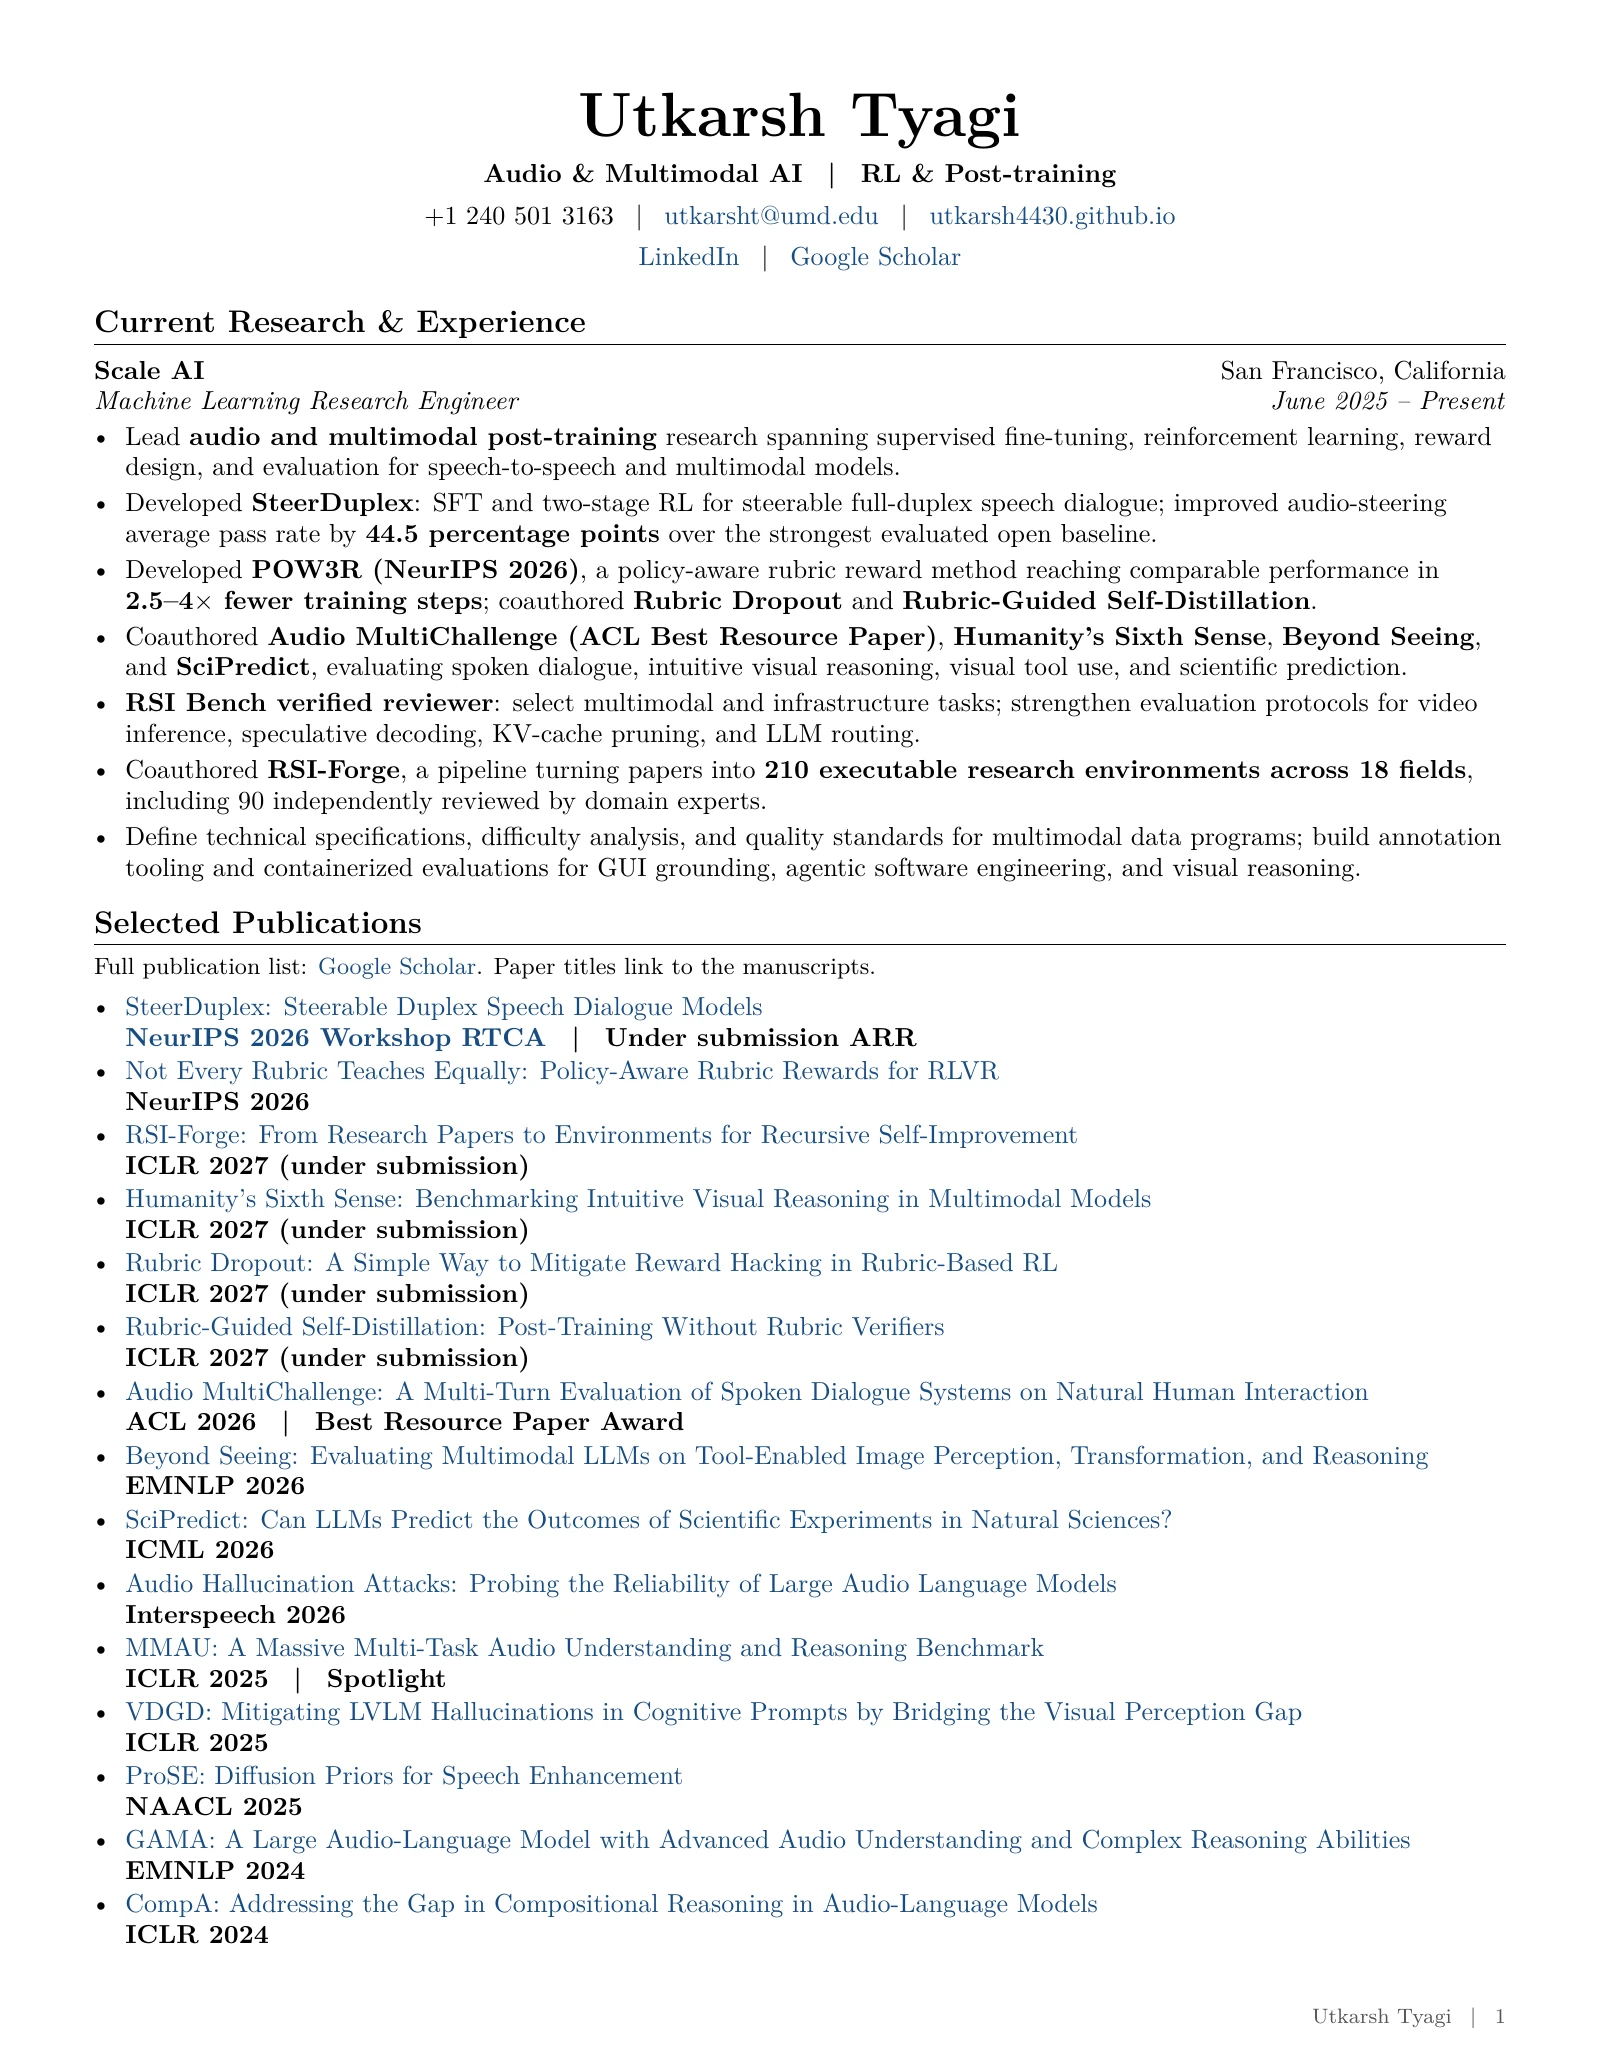
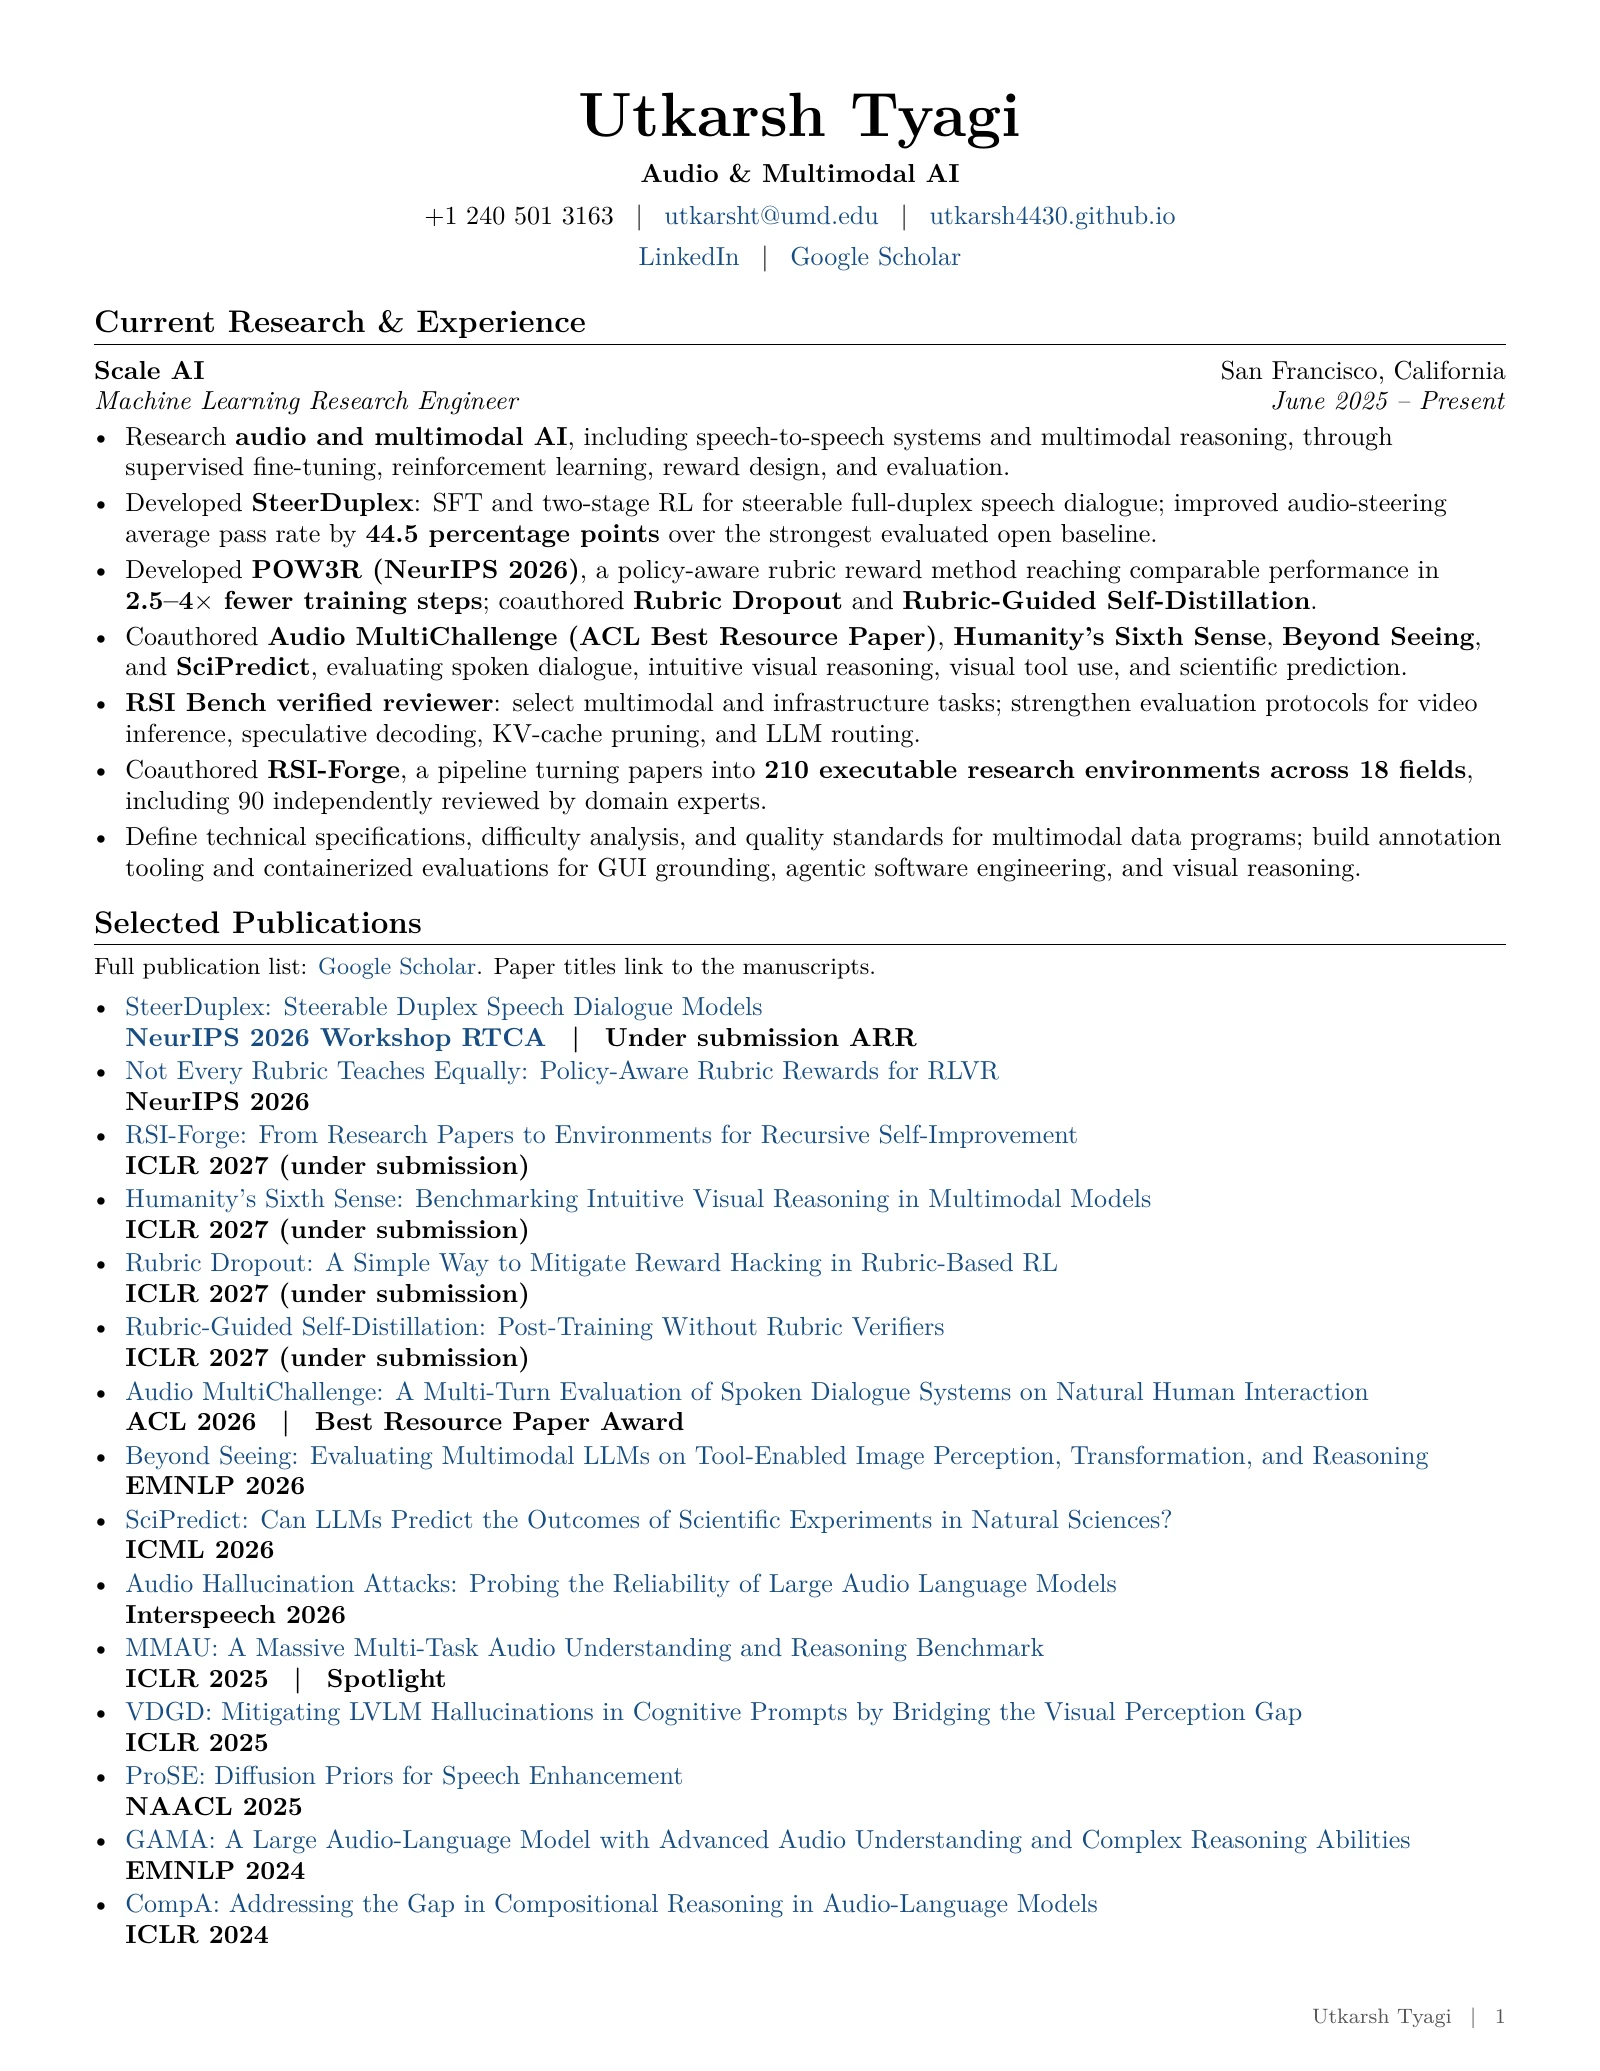
Broaden research profile to audio and multimodal AI

diff --git a/index.html b/index.html
@@ -4,10 +4,10 @@
   <meta charset="utf-8">
   <meta name="viewport" content="width=device-width, initial-scale=1">
   <title>Audio &amp; Multimodal AI Research — Utkarsh Tyagi</title>
-  <meta name="description" content="Utkarsh Tyagi, Machine Learning Research Engineer at Scale AI. Audio and multimodal AI, speech dialogue, reinforcement learning, and post-training.">
+  <meta name="description" content="Utkarsh Tyagi, Machine Learning Research Engineer at Scale AI. Audio and multimodal AI research: speech-to-speech systems, audio-language models, multimodal reasoning, reinforcement learning, and evaluation.">
   <meta name="theme-color" content="#fbfaf8">
   <meta property="og:title" content="Audio &amp; Multimodal AI Research — Utkarsh Tyagi">
-  <meta property="og:description" content="Utkarsh Tyagi, Machine Learning Research Engineer at Scale AI. Audio and multimodal AI, speech dialogue, reinforcement learning, and post-training.">
+  <meta property="og:description" content="Utkarsh Tyagi, Machine Learning Research Engineer at Scale AI. Audio and multimodal AI research: speech-to-speech systems, audio-language models, multimodal reasoning, reinforcement learning, and evaluation.">
   <meta property="og:type" content="website">
   <meta property="og:url" content="https://utkarsh4430.github.io/">
   <meta property="og:image" content="https://utkarsh4430.github.io/assets/IMG_4207.jpeg">
@@ -26,13 +26,13 @@
     <main id="main">
       <section class="hero" aria-labelledby="intro-title">
         <div class="bio">
-          <p class="eyebrow">Audio &amp; multimodal AI · RL &amp; post-training</p>
+          <p class="eyebrow">Audio &amp; multimodal AI</p>
           <h1 id="intro-title">Utkarsh Tyagi</h1>
           <p>I’m a <strong>Machine Learning Research Engineer at Scale AI</strong> in San Francisco.
-            My research focuses on audio and multimodal AI, with an emphasis on post-training,
-            reinforcement learning, and speech-to-speech models.</p>
-          <p>I work on steerable speech dialogue, rubric-based learning, and evaluations of
-            how models reason across audio, images, and video.</p>
+            My research focuses on audio and multimodal AI, including speech-to-speech systems,
+            audio-language models, and multimodal reasoning.</p>
+          <p>I work on supervised fine-tuning, reinforcement learning, and model evaluation,
+            with recent research on steerable speech dialogue and rubric-based post-training.</p>
           <p>I also contribute to <a href="https://rsi-benchmark.com/people">RSI Bench</a> as a verified reviewer,
             with task selection for multimodal and infrastructure research. I coauthored
             <a href="https://arxiv.org/abs/2610.09426" data-umami-event="paper_click" data-umami-event-paper="rsi-forge">RSI-Forge</a>,
@@ -100,7 +100,7 @@
 </main>
     <footer class="site-footer">
       <span>Utkarsh Tyagi · San Francisco</span>
-      <span>Updated October 2026 · <a href="mailto:utkarsht@umd.edu">Get in touch</a></span>
+      <span>Updated November 2026 · <a href="mailto:utkarsht@umd.edu">Get in touch</a></span>
     </footer>
   </div>
 </body>

diff --git a/cv/index.html b/cv/index.html
@@ -28,24 +28,24 @@
         <p class="eyebrow">Experience &amp; background</p><h1>Curriculum vitae</h1>
         <p>My research, publications, experience, technical skills, and professional service.</p>
         <div class="cv-actions">
-          <a href="/assets/Utkarsh_resume.pdf?v=37b86342ca" class="button primary" download="Utkarsh_Tyagi_CV.pdf" data-umami-event="cv_download">Download CV ↓</a>
-          <a href="/assets/Utkarsh_resume.pdf?v=37b86342ca" class="button" target="_blank" rel="noopener" data-umami-event="cv_open">Open PDF ↗</a>
+          <a href="/assets/Utkarsh_resume.pdf?v=5167056e0e" class="button primary" download="Utkarsh_Tyagi_CV.pdf" data-umami-event="cv_download">Download CV ↓</a>
+          <a href="/assets/Utkarsh_resume.pdf?v=5167056e0e" class="button" target="_blank" rel="noopener" data-umami-event="cv_open">Open PDF ↗</a>
         </div>
-        <p class="cv-meta">Updated October 30, 2026 · PDF · 2 pages</p>
+        <p class="cv-meta">Updated November 1, 2026 · PDF · 2 pages</p>
       </div>
       <figure class="cv-preview" aria-label="Preview of the current two-page CV">
-        <div class="cv-page"><a href="/assets/Utkarsh_resume.pdf?v=37b86342ca" aria-label="Open the full CV PDF" data-umami-event="cv_open">
-          <img src="/assets/cv-page-1.webp?v=37b86342ca" width="1600" height="2071" alt="CV page 1: current research at Scale AI and selected publications.">
+        <div class="cv-page"><a href="/assets/Utkarsh_resume.pdf?v=5167056e0e" aria-label="Open the full CV PDF" data-umami-event="cv_open">
+          <img src="/assets/cv-page-1.webp?v=5167056e0e" width="1600" height="2071" alt="CV page 1: current research at Scale AI and selected publications.">
         </a></div>
-        <div class="cv-page"><a href="/assets/Utkarsh_resume.pdf?v=37b86342ca" aria-label="Open the full CV PDF" data-umami-event="cv_open">
-          <img src="/assets/cv-page-2.webp?v=37b86342ca" width="1600" height="2071" alt="CV page 2: additional experience, education, technical skills, awards, service, and patents." loading="lazy">
+        <div class="cv-page"><a href="/assets/Utkarsh_resume.pdf?v=5167056e0e" aria-label="Open the full CV PDF" data-umami-event="cv_open">
+          <img src="/assets/cv-page-2.webp?v=5167056e0e" width="1600" height="2071" alt="CV page 2: additional experience, education, technical skills, awards, service, and patents." loading="lazy">
         </a></div>
-        <figcaption>For selectable text and publication links, <a href="/assets/Utkarsh_resume.pdf?v=37b86342ca" data-umami-event="cv_open">open the PDF</a>.</figcaption>
+        <figcaption>For selectable text and publication links, <a href="/assets/Utkarsh_resume.pdf?v=5167056e0e" data-umami-event="cv_open">open the PDF</a>.</figcaption>
       </figure>
 </main>
     <footer class="site-footer">
       <span>Utkarsh Tyagi · San Francisco</span>
-      <span>Updated October 2026 · <a href="mailto:utkarsht@umd.edu">Get in touch</a></span>
+      <span>Updated November 2026 · <a href="mailto:utkarsht@umd.edu">Get in touch</a></span>
     </footer>
   </div>
 </body>

diff --git a/publications/index.html b/publications/index.html
@@ -26,7 +26,7 @@
     <main id="main">
       <div class="page-intro">
         <p class="eyebrow">Research</p><h1>Publications</h1>
-        <p>Recent work on speech dialogue, multimodal reasoning, rubric feedback, and self-improving agents.</p>
+        <p>Research across audio and multimodal AI, including speech dialogue, reinforcement learning, evaluation, and self-improving agents.</p>
       </div>
       <section aria-labelledby="featured-title">
         <div class="section-heading"><h2 id="featured-title">Featured work</h2><span class="quiet">Figures from the papers</span></div>
@@ -133,7 +133,7 @@
 </main>
     <footer class="site-footer">
       <span>Utkarsh Tyagi · San Francisco</span>
-      <span>Updated October 2026 · <a href="mailto:utkarsht@umd.edu">Get in touch</a></span>
+      <span>Updated November 2026 · <a href="mailto:utkarsht@umd.edu">Get in touch</a></span>
     </footer>
   </div>
 </body>

diff --git a/scripts/build_profile.py b/scripts/build_profile.py
@@ -117,13 +117,13 @@ def news_rows(items):
 intro = f'''
       <section class="hero" aria-labelledby="intro-title">
         <div class="bio">
-          <p class="eyebrow">Audio &amp; multimodal AI · RL &amp; post-training</p>
+          <p class="eyebrow">Audio &amp; multimodal AI</p>
           <h1 id="intro-title">Utkarsh Tyagi</h1>
           <p>I’m a <strong>Machine Learning Research Engineer at Scale AI</strong> in San Francisco.
-            My research focuses on audio and multimodal AI, with an emphasis on post-training,
-            reinforcement learning, and speech-to-speech models.</p>
-          <p>I work on steerable speech dialogue, rubric-based learning, and evaluations of
-            how models reason across audio, images, and video.</p>
+            My research focuses on audio and multimodal AI, including speech-to-speech systems,
+            audio-language models, and multimodal reasoning.</p>
+          <p>I work on supervised fine-tuning, reinforcement learning, and model evaluation,
+            with recent research on steerable speech dialogue and rubric-based post-training.</p>
           <p>I also contribute to {link("https://rsi-benchmark.com/people", "RSI Bench")} as a verified reviewer,
             with task selection for multimodal and infrastructure research. I coauthored
             {link(PAPERS["rsi-forge"]["url"], "RSI-Forge", event("paper_click", paper="rsi-forge"))},
@@ -204,7 +204,7 @@ for year in sorted({p["year"] for p in DATA["publications"]}, reverse=True):
 publications = f'''
       <div class="page-intro">
         <p class="eyebrow">Research</p><h1>Publications</h1>
-        <p>Recent work on speech dialogue, multimodal reasoning, rubric feedback, and self-improving agents.</p>
+        <p>Research across audio and multimodal AI, including speech dialogue, reinforcement learning, evaluation, and self-improving agents.</p>
       </div>
       <section aria-labelledby="featured-title">
         <div class="section-heading"><h2 id="featured-title">Featured work</h2><span class="quiet">Figures from the papers</span></div>
@@ -240,7 +240,7 @@ cv = f'''
 '''
 
 for path, title, active, description, body, route in [
-    ("index.html", "Audio & Multimodal AI Research", "intro", "Utkarsh Tyagi, Machine Learning Research Engineer at Scale AI. Audio and multimodal AI, speech dialogue, reinforcement learning, and post-training.", intro, "/"),
+    ("index.html", "Audio & Multimodal AI Research", "intro", "Utkarsh Tyagi, Machine Learning Research Engineer at Scale AI. Audio and multimodal AI research: speech-to-speech systems, audio-language models, multimodal reasoning, reinforcement learning, and evaluation.", intro, "/"),
     ("publications/index.html", "Publications", "publications", "Selected research by Utkarsh Tyagi, including RSI-Forge, SteerDuplex, POW3R, Humanity’s Sixth Sense, Rubric Dropout, and Audio MultiChallenge.", publications, "/publications/"),
     ("cv/index.html", "CV", "cv", "Utkarsh Tyagi’s current CV: research, publications, professional experience, skills, and service.", cv, "/cv/")
 ]:

diff --git a/assets/Utkarsh_resume.tex b/assets/Utkarsh_resume.tex
@@ -1,4 +1,4 @@
-% Utkarsh Tyagi -- research resume, updated October 30, 2026.
+% Utkarsh Tyagi -- research resume, updated November 1, 2026.
 % Adapted from the user's Overleaf main.tex, based on Jake Gutierrez / sb2nov.
 % Original source is preserved separately in work/overleaf-original/main.tex.
 % Self-contained source; compile with pdfLaTeX.
@@ -47,7 +47,7 @@
 \begin{document}
 \begin{center}
   {\fontsize{24}{26}\selectfont\textbf{Utkarsh Tyagi}}\\[4pt]
-  {\small\textbf{Audio \& Multimodal AI \enspace | \enspace RL \& Post-training}}\\[4pt]
+  {\small\textbf{Audio \& Multimodal AI}}\\[4pt]
   {\small +1 240 501 3163 \enspace | \enspace
     \href{mailto:utkarsht@umd.edu}{utkarsht@umd.edu} \enspace | \enspace
     \href{https://utkarsh4430.github.io}{utkarsh4430.github.io}\\[2pt]
@@ -61,7 +61,7 @@
 \role{Scale AI}{San Francisco, California}
   {Machine Learning Research Engineer}{June 2025 -- Present}
 \begin{itemize}
-  \item Lead \textbf{audio and multimodal post-training} research spanning supervised fine-tuning, reinforcement learning, reward design, and evaluation for speech-to-speech and multimodal models.
+  \item Research \textbf{audio and multimodal AI}, including speech-to-speech systems and multimodal reasoning, through supervised fine-tuning, reinforcement learning, reward design, and evaluation.
   \item Developed \textbf{SteerDuplex}: SFT and two-stage RL for steerable full-duplex speech dialogue; improved audio-steering average pass rate by \textbf{44.5 percentage points} over the strongest evaluated open baseline.
   \item Developed \textbf{POW3R (NeurIPS 2026)}, a policy-aware rubric reward method reaching comparable performance in \textbf{2.5--4$\times$ fewer training steps}; coauthored \textbf{Rubric Dropout} and \textbf{Rubric-Guided Self-Distillation}.
   \item Coauthored \textbf{Audio MultiChallenge (ACL Best Resource Paper)}, \textbf{Humanity's Sixth Sense}, \textbf{Beyond Seeing}, and \textbf{SciPredict}, evaluating spoken dialogue, intuitive visual reasoning, visual tool use, and scientific prediction.

diff --git a/README.md b/README.md
@@ -71,3 +71,10 @@ No email contents or private account information are stored in the website conte
 - Updated [Rubric Dropout](https://arxiv.org/abs/2608.11669) to its October 21 title and expanded method description; retained the original figure with its version-specific provenance.
 - Updated [Beyond Seeing](https://aclanthology.org/2026.emnlp-main.1711/) to its published EMNLP proceedings URL.
 - Google Scholar required a CAPTCHA during this check; recent releases were cross-checked with the [arXiv author listing](https://arxiv.org/search/?searchtype=author&query=Tyagi%2C+Utkarsh&abstracts=show&order=-announced_date_first&size=50). No new award was added. Existing author-confirmed submission and acceptance statuses were preserved.
+
+## Profile positioning (November 1, 2026)
+
+The website introduction and resume headline use Audio & Multimodal AI as the broad research area.
+Experience bullets retain the specific SFT, reinforcement learning, post-training, and evaluation work.
+This wording follows the author's requested positioning; it introduces no pre-training, architecture,
+or large-scale training-run claims. Publication order and submission statuses are unchanged.
